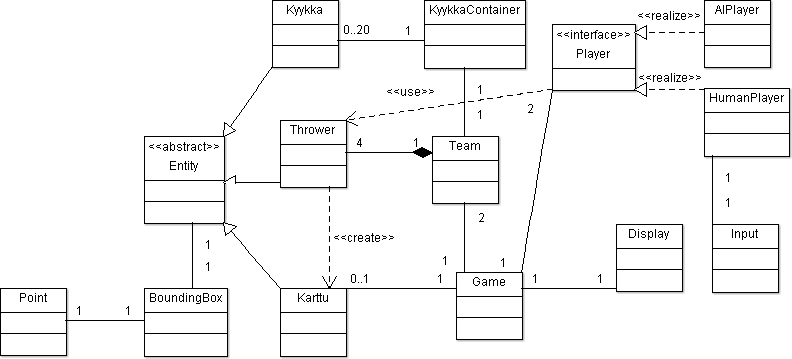
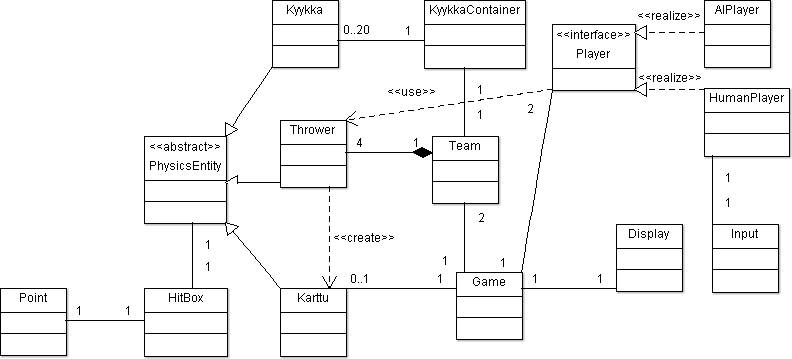
Uudelleennimetty Entity -> PhysicsEntity, BoundingBox -> HitBox (Nimien selkeyttämiseksi)

Changed region(s): [[0.1818, 0.337, 0.303, 0.6741], [0.1818, 0.7967, 0.2727, 0.8579], [0.4848, 0.2451, 0.5455, 0.2758]]

diff --git a/academickyykka/src/test/java/org/kyykka/logic/shape/HitBoxTest.java b/academickyykka/src/test/java/org/kyykka/logic/shape/HitBoxTest.java
@@ -6,7 +6,7 @@
 package org.kyykka.logic.shape;
 
 import org.kyykka.logic.shape.Point;
-import org.kyykka.logic.shape.BoundingBox;
+import org.kyykka.logic.shape.HitBox;
 import java.util.Collection;
 import java.util.HashSet;
 import org.junit.After;
@@ -20,11 +20,11 @@ import static org.junit.Assert.*;
  *
  * @author Admin
  */
-public class BoundingBoxTest {
+public class HitBoxTest {
     
-    private BoundingBox mainbox;
+    private HitBox mainbox;
     
-    public BoundingBoxTest() {
+    public HitBoxTest() {
     }
     
     @BeforeClass
@@ -37,7 +37,7 @@ public class BoundingBoxTest {
     
     @Before
     public void setUp() {
-        this.mainbox = new BoundingBox(2, 2, 4, 6, 6, 6);
+        this.mainbox = new HitBox(2, 2, 4, 6, 6, 6);
     }
     
     @After
@@ -141,37 +141,37 @@ public class BoundingBoxTest {
     
     @Test
     public void collisionWithBoundingBoxWorks(){
-        BoundingBox box2 = new BoundingBox(1, 1, 1, 3, 3, 3);
+        HitBox box2 = new HitBox(1, 1, 1, 3, 3, 3);
         assertTrue(this.mainbox.collidesWith(box2));
     }
     
     @Test
     public void noFalseCollisionWithBoundingBox(){
-        BoundingBox box2 = new BoundingBox(11, 11, 11, 2, 1, 1);
+        HitBox box2 = new HitBox(11, 11, 11, 2, 1, 1);
         assertFalse(this.mainbox.collidesWith(box2));
     }
     
     @Test
     public void adjacentCollisionWorksX(){
-        BoundingBox box2 = new BoundingBox(0, 2, 4, 2, 6, 6);
+        HitBox box2 = new HitBox(0, 2, 4, 2, 6, 6);
         assertTrue(this.mainbox.collidesWith(box2));
-        BoundingBox box3 = new BoundingBox(8, 2, 4, 10, 10, 10);
+        HitBox box3 = new HitBox(8, 2, 4, 10, 10, 10);
         assertTrue(this.mainbox.collidesWith(box3));
     }
     
     @Test
     public void adjacentCollisionWorksY(){
-        BoundingBox box2 = new BoundingBox(2, 0, 4, 6, 2, 6);
+        HitBox box2 = new HitBox(2, 0, 4, 6, 2, 6);
         assertTrue(this.mainbox.collidesWith(box2));
-        BoundingBox box3 = new BoundingBox(2, 8, 4, 7, 7, 7);
+        HitBox box3 = new HitBox(2, 8, 4, 7, 7, 7);
         assertTrue(this.mainbox.collidesWith(box3));
     }
     
     @Test
     public void adjacentCollisionWorksZ(){
-        BoundingBox box2 = new BoundingBox(2, 2, 0, 6, 6, 4);
+        HitBox box2 = new HitBox(2, 2, 0, 6, 6, 4);
         assertTrue(this.mainbox.collidesWith(box2));
-        BoundingBox box3 = new BoundingBox(2, 2, 10, 3, 3, 3);
+        HitBox box3 = new HitBox(2, 2, 10, 3, 3, 3);
         assertTrue(this.mainbox.collidesWith(box3));
     }
     

diff --git a/academickyykka/src/main/java/org/kyykka/logic/object/PhysicsEntity.java b/academickyykka/src/main/java/org/kyykka/logic/object/PhysicsEntity.java
@@ -5,14 +5,14 @@
  */
 package org.kyykka.logic.object;
 
-import org.kyykka.logic.shape.BoundingBox;
+import org.kyykka.logic.shape.HitBox;
 import org.kyykka.logic.shape.Point;
 
 /**
  *
  * @author Admin
  */
-public abstract class Entity {
+public abstract class PhysicsEntity {
     
     /**
      * GAME UNITS FOR PHYSICS:
@@ -22,15 +22,15 @@ public abstract class Entity {
      * Weight: Grams
      */
     
-    private BoundingBox box;
+    private HitBox box;
     private int xmom;
     private int ymom;
     private int zmom;
     private int mass;
     private boolean frozen;
 
-    public Entity(int x, int y, int z, int width, int height, int depth, int mass) {
-        this.box = new BoundingBox(x, y, z, width, height, depth);
+    public PhysicsEntity(int x, int y, int z, int width, int height, int depth, int mass) {
+        this.box = new HitBox(x, y, z, width, height, depth);
         this.mass = mass;
         this.xmom = 0;
         this.ymom = 0;
@@ -38,11 +38,11 @@ public abstract class Entity {
         this.frozen = true;
     }
     
-    public BoundingBox getBoundingBox(){
+    public HitBox getBoundingBox(){
         return this.box;
     }
     
-    public boolean collidesWith(Entity e){
+    public boolean collidesWith(PhysicsEntity e){
         return this.getBoundingBox().collidesWith(e.getBoundingBox());
     }
     
@@ -103,7 +103,7 @@ public abstract class Entity {
         return (mom * 97) / 100;
     }
     
-    public void collide(Entity e){
+    public void collide(PhysicsEntity e){
         //Collide should be called seperately for both entities involved in collision
         this.xmom = (int) collisionVelocity(this.xmom, e.getXmom(), this.mass, e.getMass());
         this.ymom = (int) collisionVelocity(this.ymom, e.getYmom(), this.mass, e.getMass());

diff --git a/academickyykka/src/main/java/org/kyykka/logic/shape/HitBox.java b/academickyykka/src/main/java/org/kyykka/logic/shape/HitBox.java
@@ -12,7 +12,7 @@ import java.util.HashSet;
  *
  * @author Admin
  */
-public class BoundingBox {
+public class HitBox {
     
     //The location represents lower bottom left corner
     //(Smallest x, y and z of the box)
@@ -22,7 +22,7 @@ public class BoundingBox {
     private int height;
     private int depth;
 
-    public BoundingBox(int x, int y, int z, int width, int height, int depth) {
+    public HitBox(int x, int y, int z, int width, int height, int depth) {
         this.location = new Point(x, y, z);
         this.width = width;
         this.height = height;
@@ -64,7 +64,7 @@ public class BoundingBox {
         return false;
     }
     
-    public boolean collidesWith(BoundingBox box){
+    public boolean collidesWith(HitBox box){
         Collection<Point> mycorners = this.getCorners();
         boolean result = box.collidesWith(mycorners);
         if(result == true){

diff --git a/academickyykka/src/main/java/org/kyykka/logic/object/Karttu.java b/academickyykka/src/main/java/org/kyykka/logic/object/Karttu.java
@@ -9,7 +9,7 @@ package org.kyykka.logic.object;
  *
  * @author Admin
  */
-public class Karttu extends Entity{
+public class Karttu extends PhysicsEntity{
 
     public Karttu(int x, int y, int z, int width, int height, int depth, int mass, int xmom, int ymom, int zmom) {
         super(x, y, z, width, height, depth, mass);

diff --git a/academickyykka/src/main/java/org/kyykka/logic/object/Thrower.java b/academickyykka/src/main/java/org/kyykka/logic/object/Thrower.java
@@ -11,7 +11,7 @@ import org.kyykka.logic.shape.Point;
  *
  * @author Admin
  */
-public class Thrower extends Entity{
+public class Thrower extends PhysicsEntity{
     
     private Point target;
 

diff --git a/academickyykka/src/main/java/org/kyykka/logic/object/Kyykka.java b/academickyykka/src/main/java/org/kyykka/logic/object/Kyykka.java
@@ -10,7 +10,7 @@ package org.kyykka.logic.object;
  * @author Admin
  */
 
-public class Kyykka extends Entity{
+public class Kyykka extends PhysicsEntity{
     
     private boolean frozen;
 
